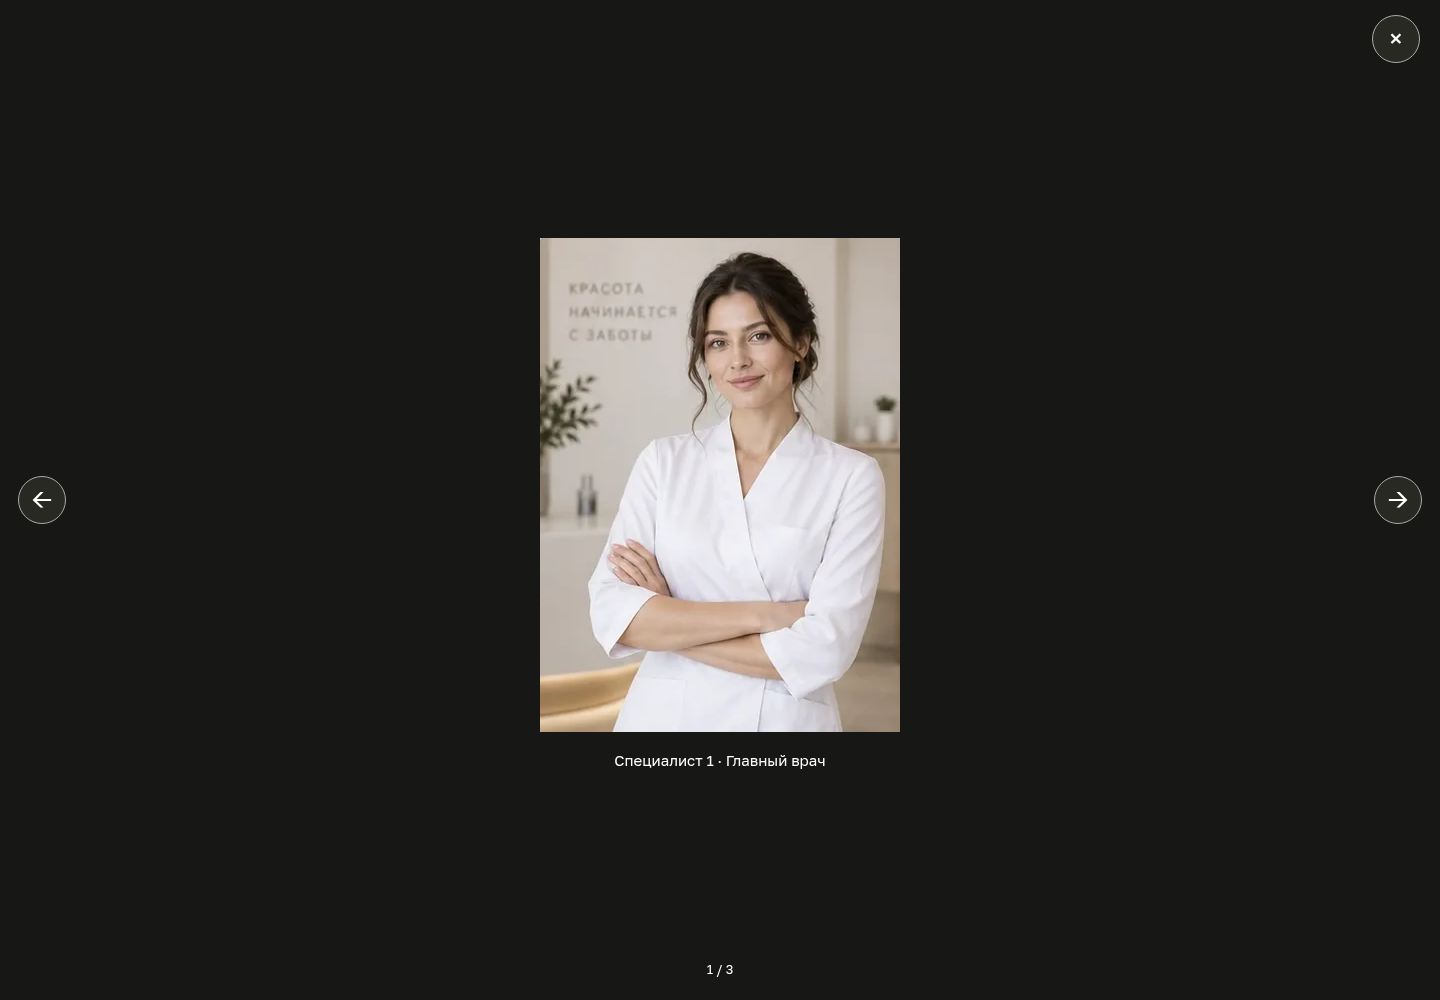
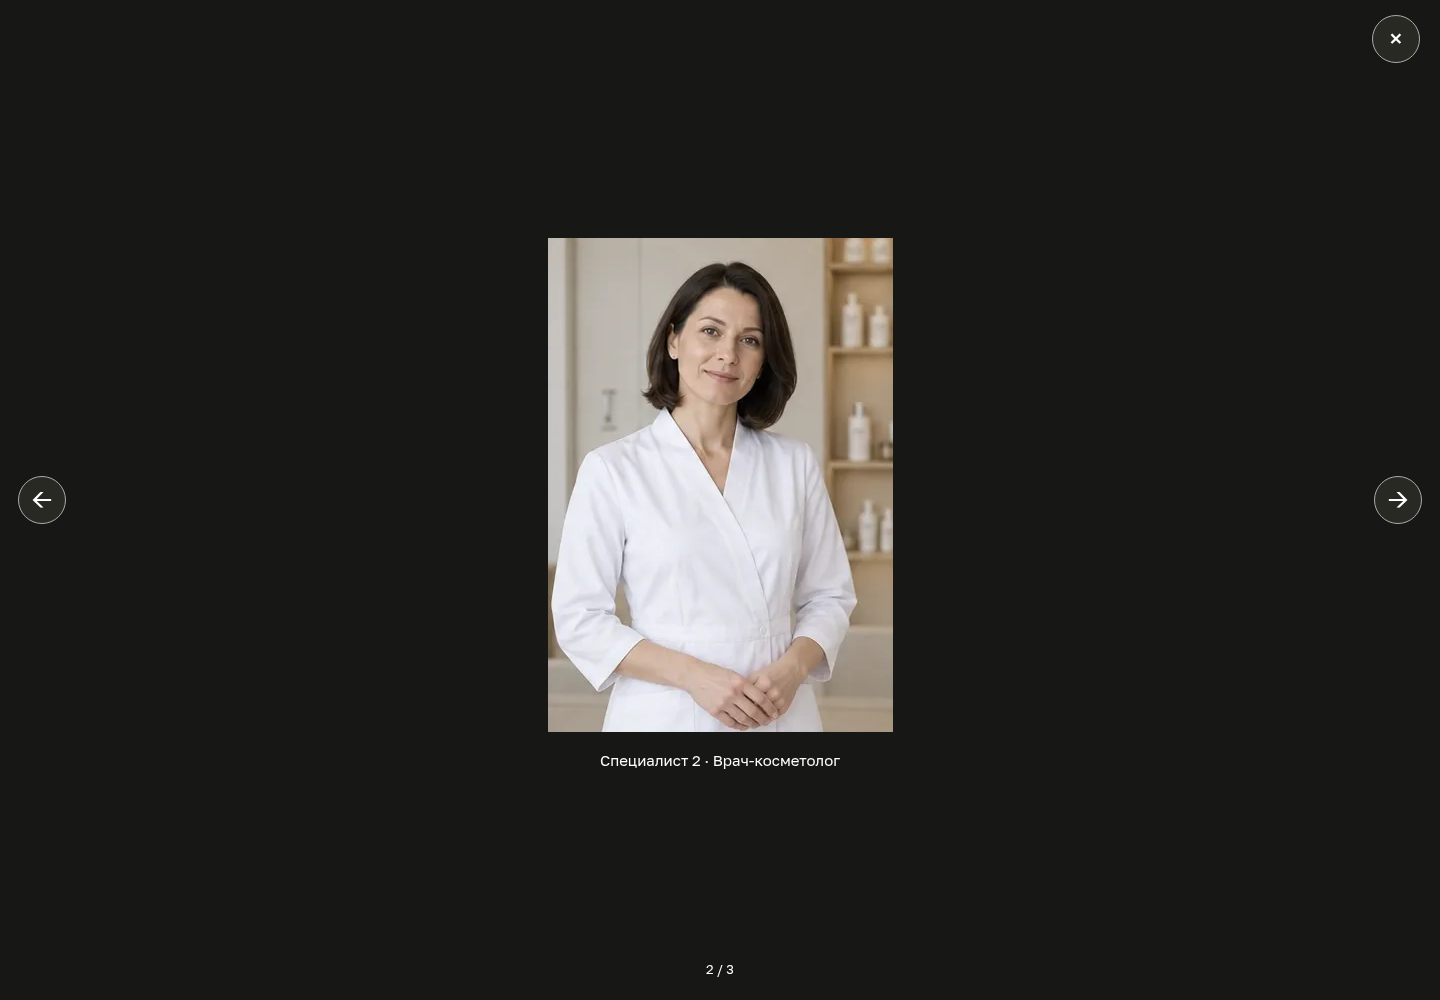
Fit desktop about clinic section to viewport height

Changed region(s): [[0.375, 0.217, 0.625, 0.775]]

diff --git a/docs/qa/about-desktop-viewport/README.md b/docs/qa/about-desktop-viewport/README.md
@@ -1,0 +1,23 @@
+# Настольный блок «О клинике» в пределах окна
+
+На экранах от 801 px высота блока равна `100svh - высота шапки`. Внутренние ряды CSS Grid распределяют оставшееся пространство между интерьерами и командой. Ширина портретов рассчитывается из высоты галереи, фото сохраняют пропорции. Максимальная ширина блока 1240 px, также ограничена высотой окна. Три имеющихся портрета видны полностью; дополнительные карточки доступны в карусели.
+
+Настольный отступ под фиксированной шапкой использует общий селектор соседей: встроенный script между header и main больше не мешает компенсации высоты шапки. Мобильные стили не изменены.
+
+Проверки:
+
+- `npm run build`: успешно, 43 страницы.
+- `about-desktop-viewport.mjs`: блок, подписи и нижняя строка помещаются в 1920×1080, 1440×900, 1366×768, 1280×720, 1024×768, 1600×600; нет внутреннего вертикального переполнения или горизонтального переполнения страницы.
+- Проверен переход из шапки по ссылке «О клинике».
+- Мобильные скриншоты 375, 430 и 800 px побайтово совпали с опубликованной версией до исправления.
+- Тестовая галерея из семи специалистов: стрелки работают; без JavaScript первая и последняя карточки доступны обычной прокруткой.
+- `about-clinic.mjs`: повторно проверены увеличение, клавиатура, возврат фокуса, страницы специалистов и прежняя мобильная карусель результатов.
+
+Команды:
+
+```sh
+node scripts/qa/about-desktop-viewport.mjs http://127.0.0.1:4332 https://peri.zumrudin.ru
+node scripts/qa/about-clinic.mjs http://127.0.0.1:4332
+```
+
+Сравнение мобильных изображений выполнялось до публикации исправления, с прежним сайтом в качестве базы. Результаты измерений — `checks.json`; снимки всего окна — `desktop-*.png`.

diff --git a/docs/superpowers/plans/2026-09-13-about-clinic-handoff.md b/docs/superpowers/plans/2026-09-13-about-clinic-handoff.md
@@ -44,7 +44,7 @@ node directus/setup/about-flows.mjs
 
 ## Композиция и взаимодействие
 
-На телефоне описание расположено под заголовком на всю ширину: 12 px на телефоне, 13 px на планшете. Три интерьера видны в одном ряду. Ширина портрета 35% на телефоне и большом экране (два полных и большая часть третьего), 43% на среднем экране. Стрелки имеют размер 44 px.
+На телефоне описание расположено под заголовком на всю ширину: 12 px на телефоне, 13 px на планшете. Три интерьера видны в одном ряду. На телефоне ширина портрета 35% (два полных и большая часть третьего), на планшете 601–800 px — 43%. На компьютере от 801 px весь блок занимает высоту окна за вычетом шапки; ширина портретов вычисляется из доступной высоты галереи, пропорции фотографий сохраняются. Максимальная ширина блока 1240 px. Мобильные стрелки 44 px, компактные настольные 30 px.
 
 Клик на фото увеличивает изображение. «Подробнее» — независимая ссылка на страницу, где описание расположено под фотографией. Галереи команды и помещений не смешиваются. На странице специалиста увеличенный просмотр позволяет листать всю команду. Стрелки, клавиши и свайп работают по кругу, без автоматического перелистывания.
 
